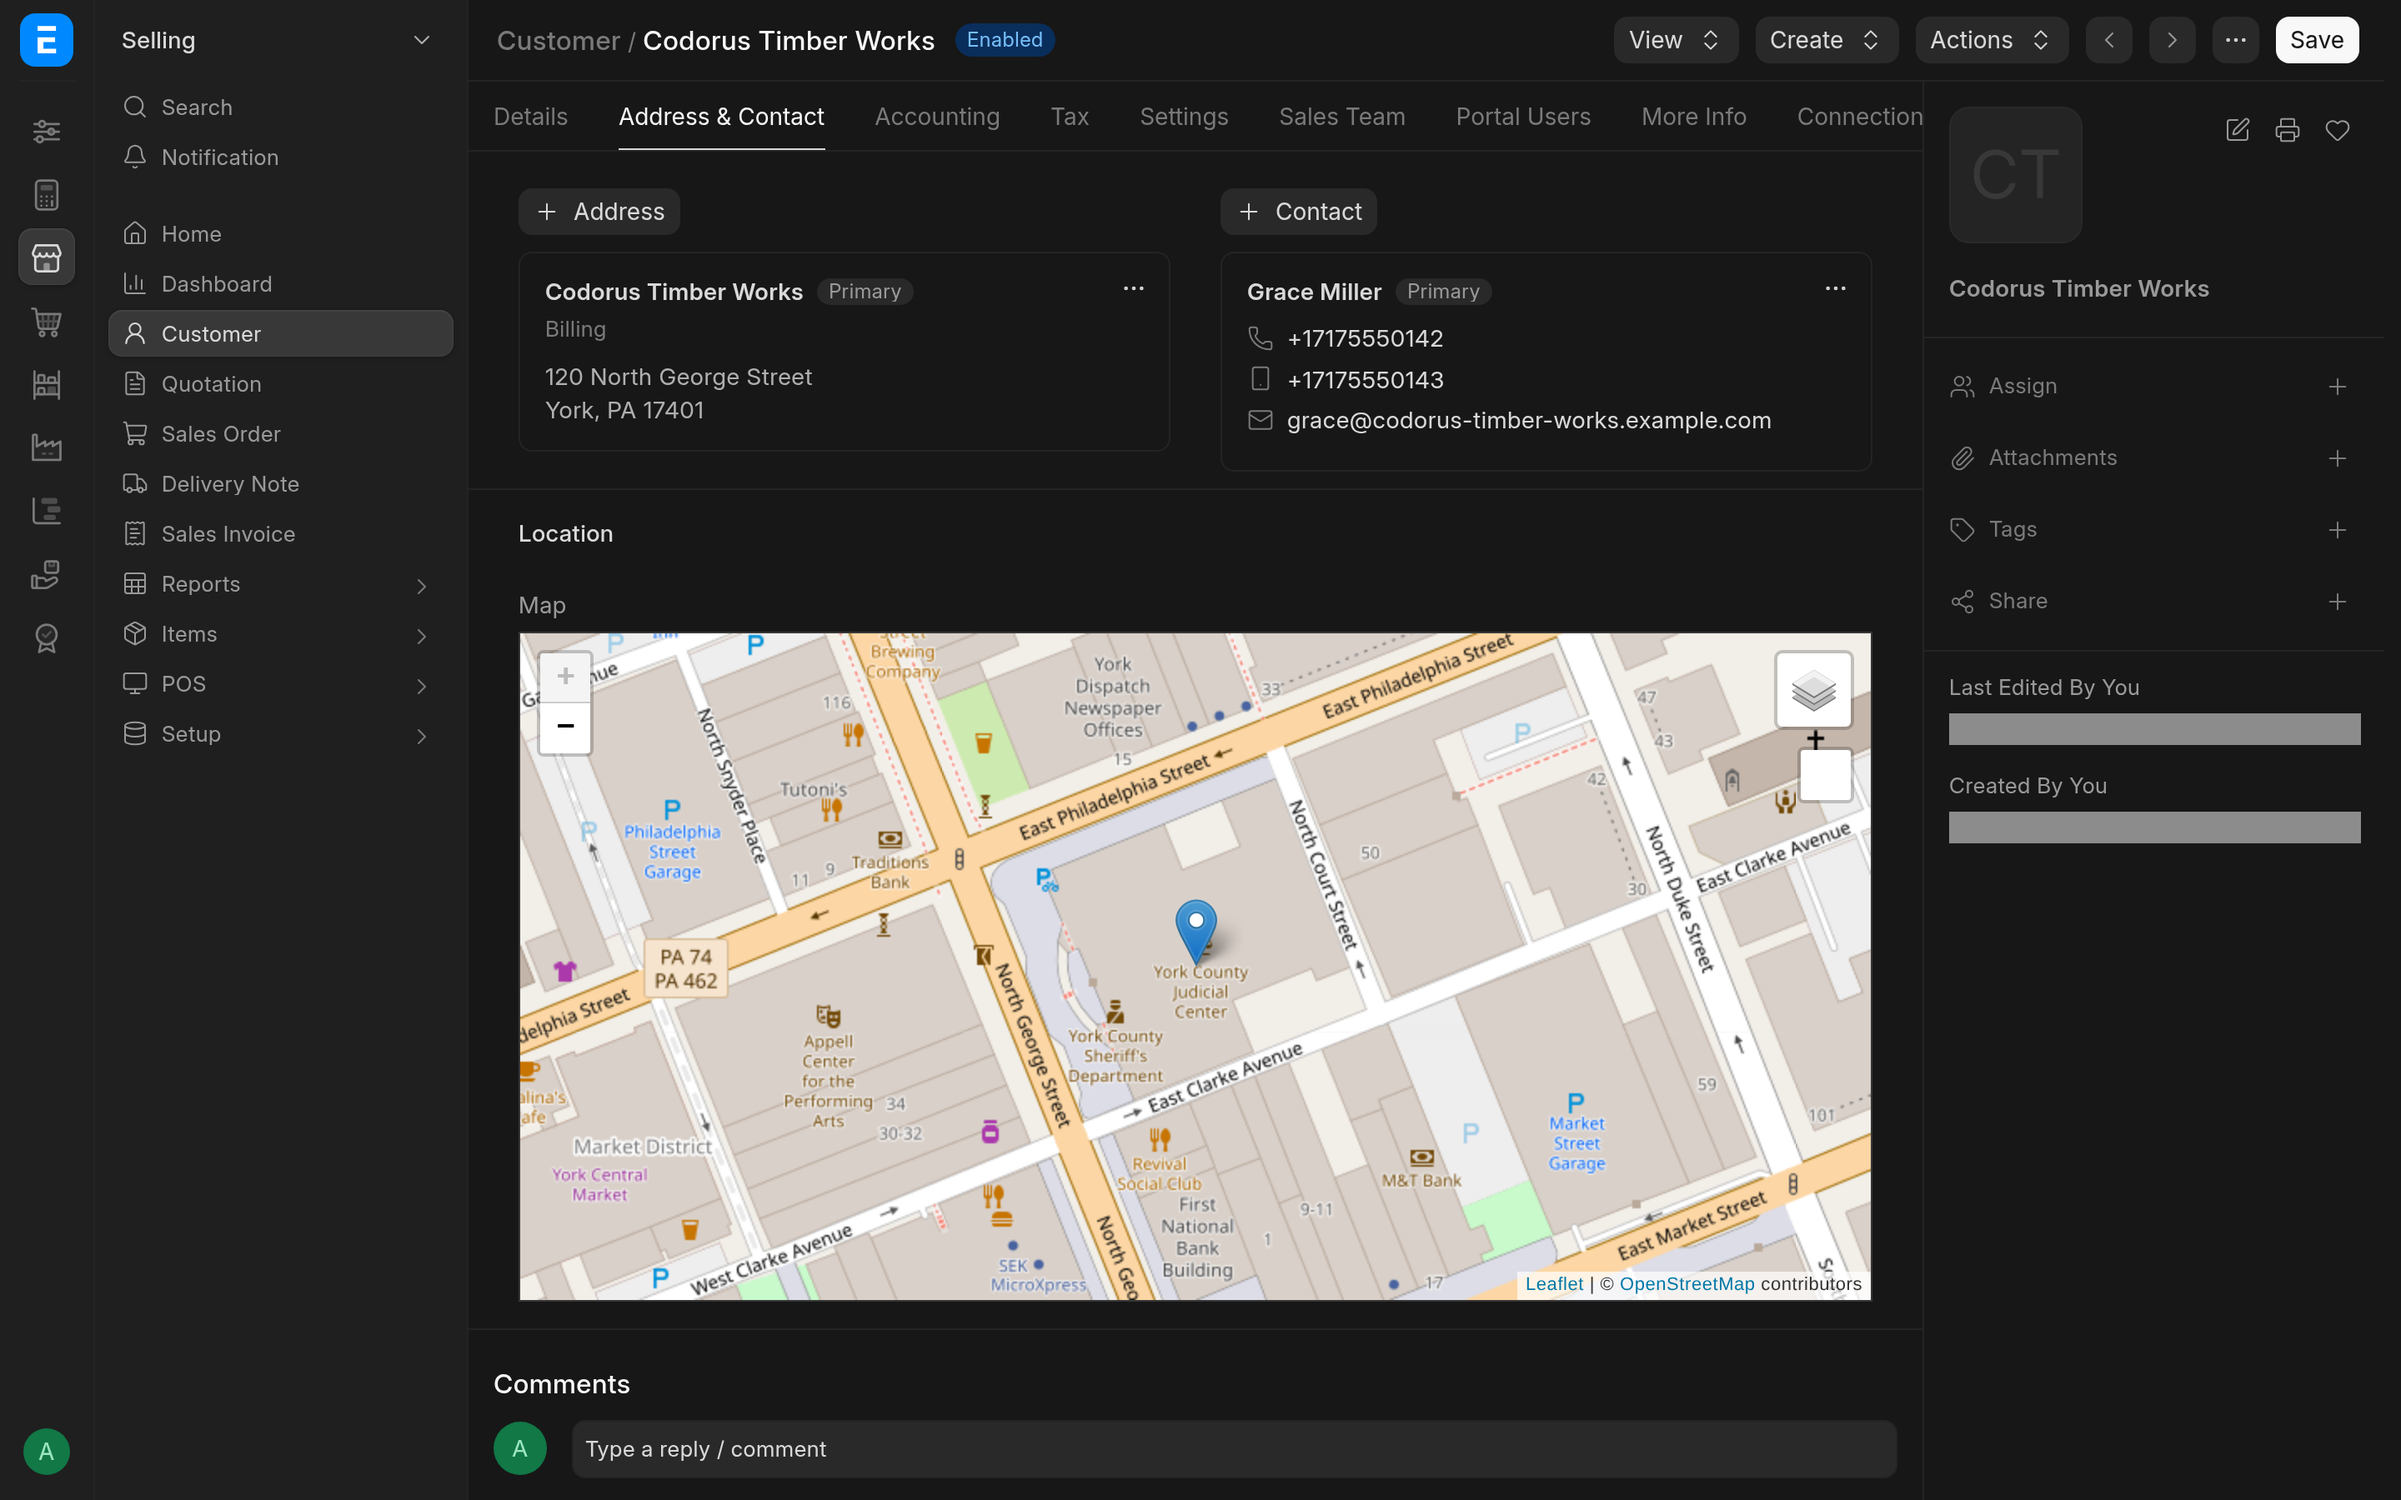
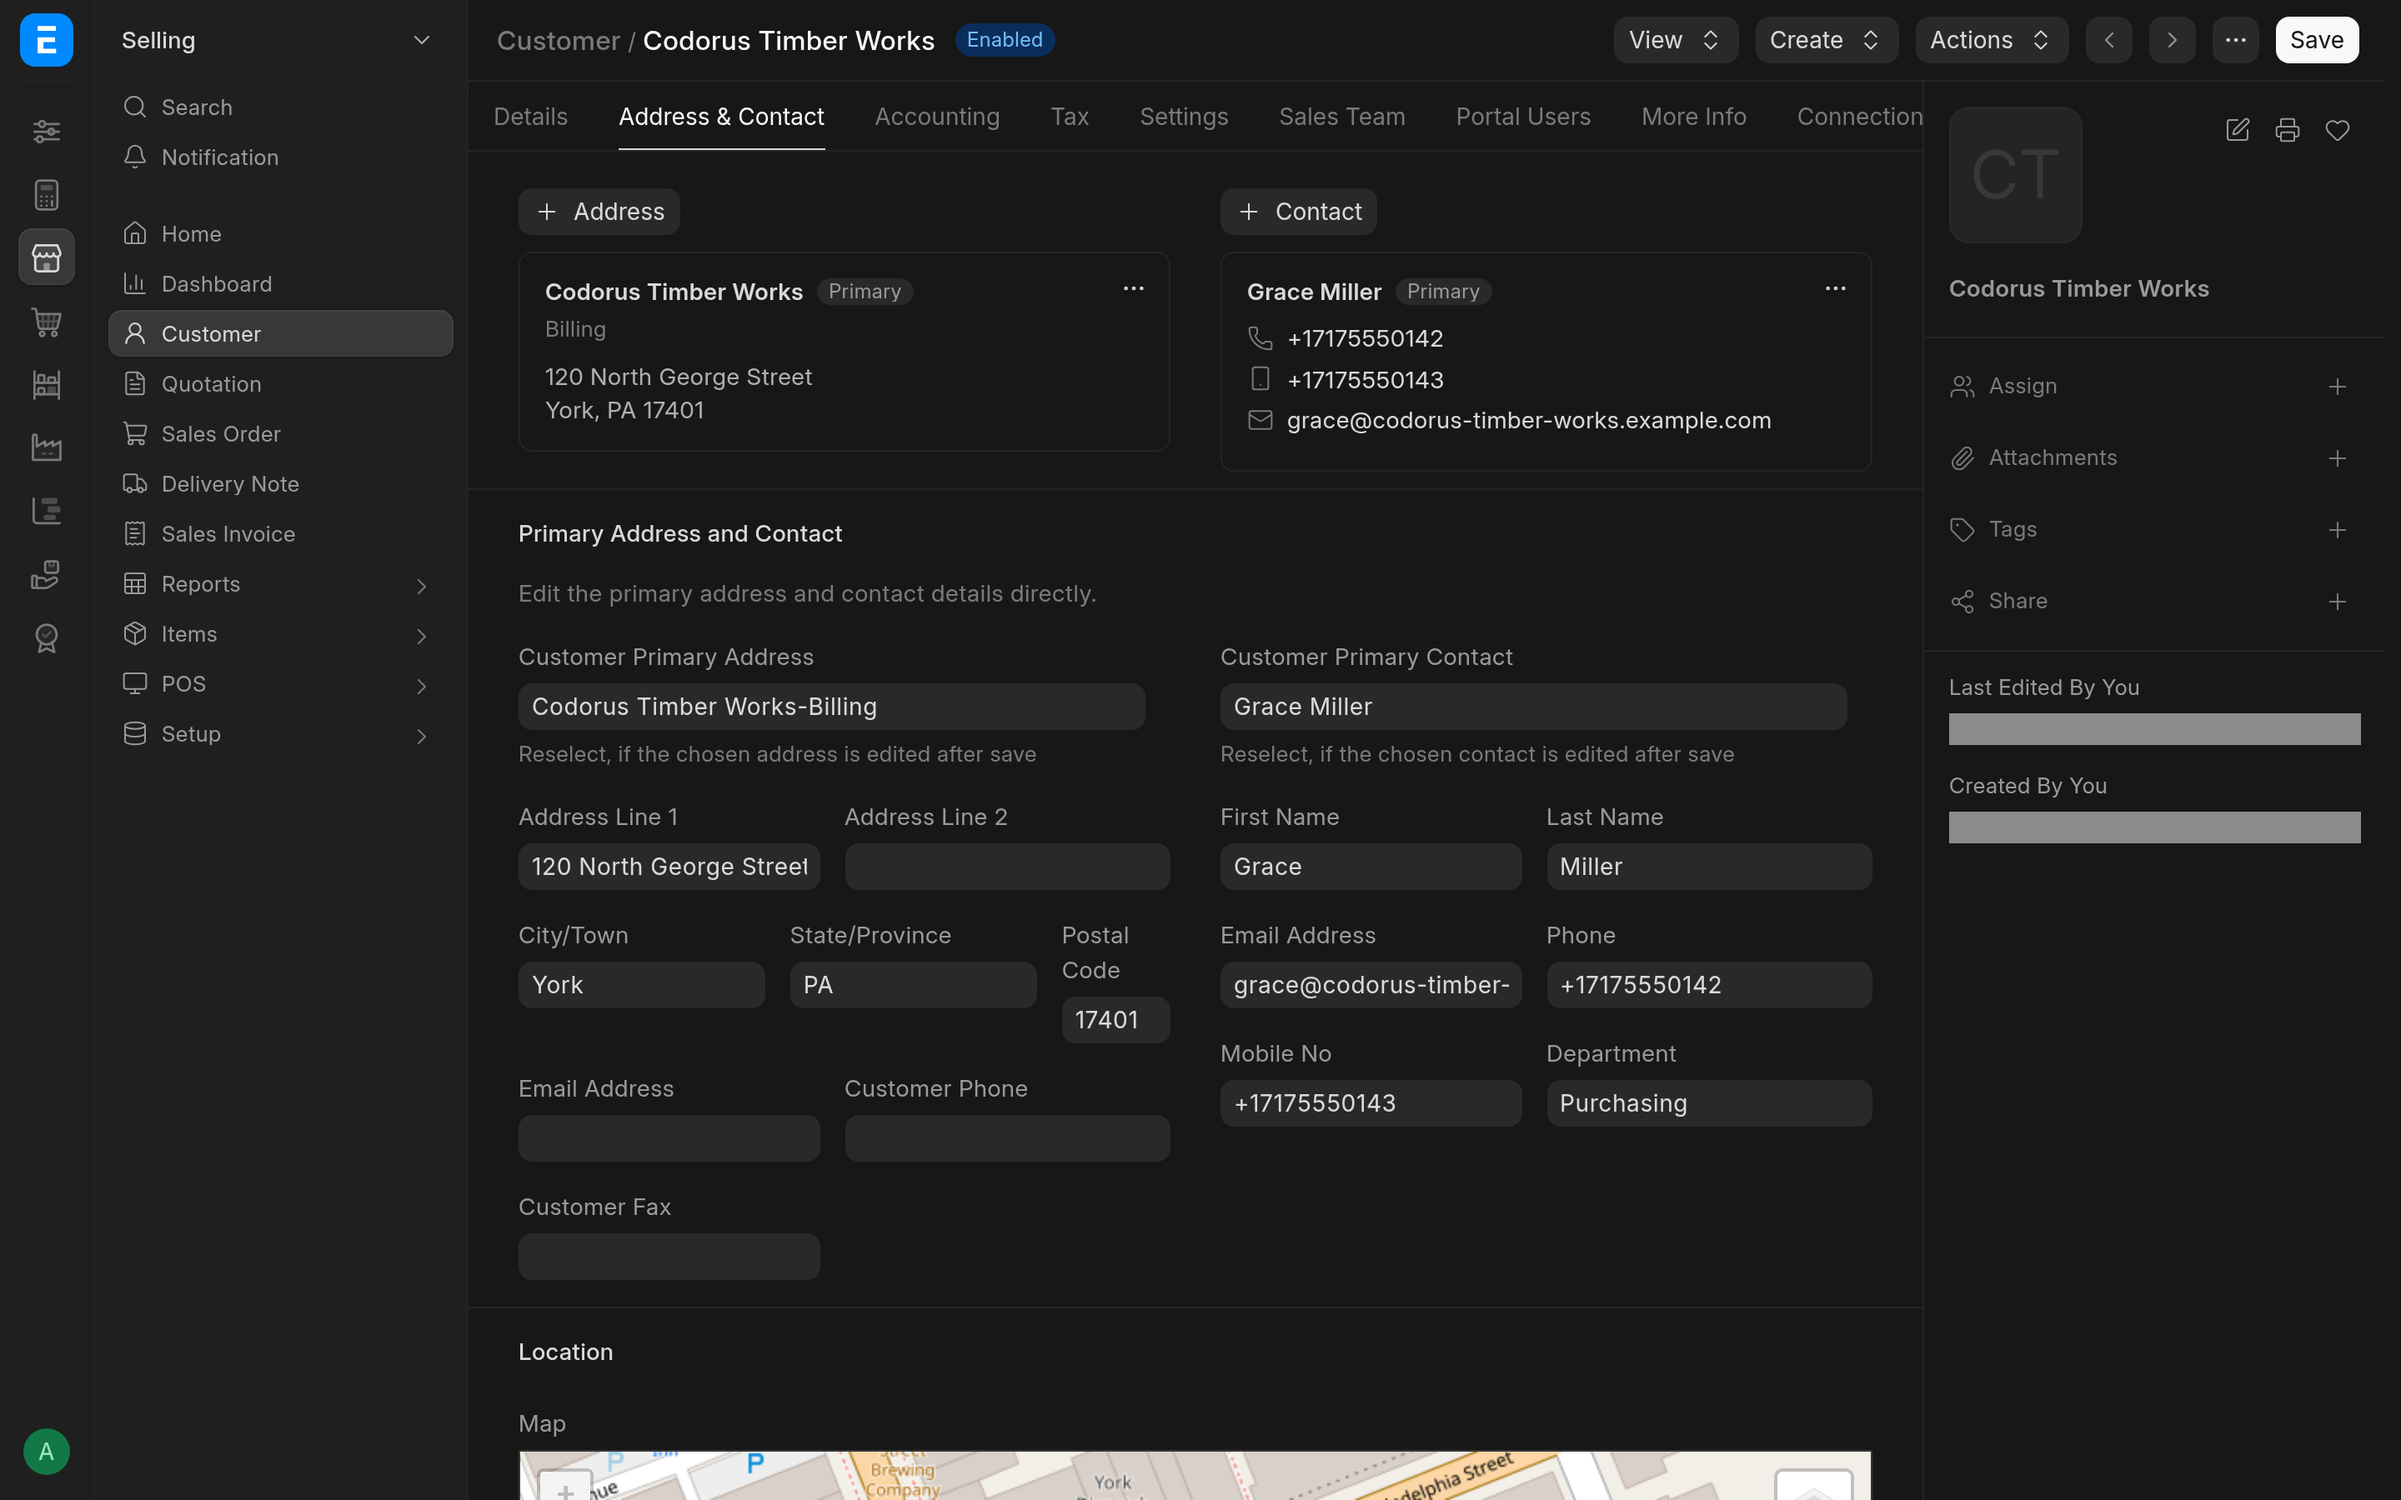
fix(party): show the primary address and contact section on v16
ERPNext v16 hides the Customer's and Supplier's Primary Address and
Contact section, and the app's primary address and contact fields sit
inside it, so they never showed on the form. Add a property setter that
shows the section again, a test that the section is visible and holds
the app's fields, and retake the customer-form screenshot.

Claude-Session: https://claude.ai/code/session_01SvdEeMiewirZ3ifFoUix5F

Changed region(s): [[0.2188, 0.3422, 0.7812, 0.8711], [0.1875, 0.9022, 0.7812, 1.0]]

diff --git a/erpnext_cis_plus/tests/test_party_hooks.py b/erpnext_cis_plus/tests/test_party_hooks.py
@@ -7,6 +7,7 @@ from typing import Any, cast
 import frappe
 from frappe.contacts.doctype.address.address import Address
 from frappe.contacts.doctype.contact.contact import Contact
+from frappe.tests import IntegrationTestCase
 from frappe.utils import get_link_to_form
 
 from erpnext_cis_plus.erpnext_cis_plus.hooks import customer as customer_hooks
@@ -240,3 +241,28 @@ class TestCustomerMap(GeocodingTestCase):
 		frappe.set_user("Guest")
 		with self.assertRaises(frappe.PermissionError):
 			customer_hooks.get_coords()
+
+
+class TestPartyForm(IntegrationTestCase):
+	def test_the_primary_address_and_contact_section_is_shown(self):
+		# ERPNext v16 hides this section; the app's fields sit in it, so it must show
+		for party_type, section in (
+			("Customer", "primary_address_and_contact_detail"),
+			("Supplier", "primary_address_and_contact_detail_section"),
+		):
+			meta = frappe.get_meta(party_type)
+			df = meta.get_field(section)
+			self.assertIsNotNone(df)
+			self.assertFalse(df.hidden, party_type)
+
+			# the app's fields are laid out inside it, up to the next section or tab
+			fieldnames = [df.fieldname for df in meta.fields]
+			after = fieldnames[fieldnames.index(section) + 1 :]
+			end = next(
+				i
+				for i, f in enumerate(after)
+				if meta.get_field(f).fieldtype in ("Section Break", "Tab Break")
+			)
+			prefix = party_type.lower()
+			self.assertIn(f"{prefix}_primary_address_address_line1", after[:end])
+			self.assertIn(f"{prefix}_primary_contact_first_name", after[:end])

diff --git a/README.md b/README.md
@@ -29,13 +29,13 @@ Address geocoding and location maps for customers and suppliers
 
 ERPNext keeps customers, contacts and addresses as separate records linked together. That is flexible, but for a small business, where most customers have one contact and one address, it means a lot of moving between forms. CIS Plus (originally "Customer Information System Enhancements for ERPNext") geocodes addresses through the free OpenStreetMap Nominatim service and shows each Address's, Customer's and Supplier's location on a map on its form.
 
-It also adds primary address and contact fields to the Customer and the Supplier, which create or update the linked Address and Contact when the party is saved. On ERPNext v16 those fields sit in a section that ERPNext hides, so for now they only work through the API, a data import or a script, not on the form; see [Limitations](#limitations).
+It also adds primary address and contact fields to the Customer and the Supplier form, which create or update the linked Address and Contact when the party is saved, so the common case is edited on one form.
 
 ## Features
 
 - **Address geocoding.** When an Address is saved with a new or changed address, or still has no coordinates, it is looked up on Nominatim. Its latitude and longitude are stored, a point is drawn on a new **Location** map on the Address, and its country, postal code, state, county and city are filled in where they are blank (a United States state name becomes its two-letter code).
 - **Location on the Customer and Supplier.** A **Location** section on both forms shows the primary address's point on a map.
-- **Primary address and contact fields on the party.** Customer and Supplier carry fields for the primary address (address lines, city, state, postal code, e-mail, phone, fax) and the primary contact (first and last name, e-mail, phone, mobile, department). Saving an existing Customer or Supplier with these set creates the Address and Contact, links them and marks them primary, or updates the ones already linked. On ERPNext v16 they are not shown on the form (see [Limitations](#limitations)).
+- **Primary address and contact fields on the party.** Customer and Supplier carry fields for the primary address (address lines, city, state, postal code, e-mail, phone, fax) and the primary contact (first and last name, e-mail, phone, mobile, department). They are in the **Primary Address and Contact** section of the **Address & Contact** tab, which ERPNext v16 hides and the app shows again. Saving an existing Customer or Supplier with these set creates the Address and Contact, links them and marks them primary, or updates the ones already linked.
 - **Phone numbers in E.164.** The primary contact's phone and mobile in those fields are converted to E.164 (`+17175550142`) with the [`phonenumbers`](https://pypi.org/project/phonenumbers/) package, using the country of the primary address, or the System Settings country. A number that cannot be parsed is kept as typed and an alert says so.
 - **Primary address and contact by default.** When a Customer or Supplier form is first opened and the party has no primary address or contact, the first linked one is selected; saving the party keeps it.
 - ERPNext's read-only **Primary Address**, **Mobile No** and **Email Id** fields on Customer and Supplier are hidden, since the fields above replace them.
@@ -88,7 +88,6 @@ There is nothing to configure. Two things are worth knowing:
 
 ## Limitations
 
-- **The primary address and contact fields are hidden on ERPNext v16.** ERPNext v16 marks the Customer's and the Supplier's **Primary Address and Contact** section as hidden, and the app does not unhide it, so the fields it adds there do not show on the form. They still work from the API, a data import or a script, and the Address and Contact are still created and updated from them.
 - A new Address created from these fields has no country field of its own on the party, so the country comes from the geocoding result. If the lookup fails or finds nothing, the Address cannot be saved (its country is mandatory) and the Customer or Supplier save fails with it.
 - The fields only act on a party that already exists: filling them in on a new Customer or Supplier and saving creates nothing.
 - The Customer's and Supplier's map point is fetched from the primary address only while it is empty, on a save of the party. A new primary address shows on the map after the party is saved once more, and an address that moves later keeps its old point on the party.

diff --git a/docs/README.md b/docs/README.md
@@ -2,7 +2,7 @@
 
 Address geocoding and location maps for customers and suppliers
 
-ERPNext keeps customers, contacts and addresses as separate records linked together. CIS Plus geocodes addresses through the free OpenStreetMap Nominatim service and shows the location of each Address, Customer and Supplier on a map on its form. It also adds primary address and contact fields to the Customer and the Supplier that create or update the linked Address and Contact; on ERPNext v16 those work through the API, a data import or a script, not on the form (see below).
+ERPNext keeps customers, contacts and addresses as separate records linked together. CIS Plus geocodes addresses through the free OpenStreetMap Nominatim service and shows the location of each Address, Customer and Supplier on a map on its form. It also adds primary address and contact fields to the Customer and the Supplier form that create or update the linked Address and Contact.
 
 ![A Customer's Address & Contact tab: its primary address and contact, and the address's geocoded point on the Customer's map](screenshots/customer-form-light.webp)
 
@@ -10,7 +10,7 @@ ERPNext keeps customers, contacts and addresses as separate records linked toget
 
 - **Address geocoding.** When an Address is saved with a new or changed address, or still has no coordinates, it is looked up on Nominatim. Its latitude and longitude are stored, a point is drawn on a new **Location** map on the Address, and its country, postal code, state, county and city are filled in where they are blank.
 - **Location on the Customer and Supplier.** A **Location** section on both forms shows the primary address's point on a map.
-- **Primary address and contact fields on the party.** Saving an existing Customer or Supplier with its primary address and contact fields set creates the Address and Contact, links them and marks them primary, or updates the ones already linked.
+- **Primary address and contact fields on the party.** In the **Primary Address and Contact** section of the **Address & Contact** tab (ERPNext v16 hides that section; the app shows it again). Saving an existing Customer or Supplier with its primary address and contact fields set creates the Address and Contact, links them and marks them primary, or updates the ones already linked.
 - **Phone numbers in E.164** for the primary contact, using the country of the primary address or of System Settings.
 - **Primary address and contact by default.** When a Customer or Supplier form is first opened and the party has no primary address or contact, the first linked one is selected.
 
@@ -20,7 +20,6 @@ ERPNext keeps customers, contacts and addresses as separate records linked toget
 
 - Geocoding sends the address text (street, city, state, postal code, country) to the public Nominatim service. The app follows [Nominatim's usage policy](https://operations.osmfoundation.org/policies/nominatim/): it identifies itself in its User-Agent, sends at most one request per second from the bench (a lookup that gets no slot within five seconds is skipped, and saving again retries it), and gives up on a request after 10 seconds. That makes it a fit for small sites with modest address volumes.
 - If the service cannot be reached, times out, returns an error or is busy, the Address is saved without coordinates and an alert says so; if it finds no match, the Address is saved without coordinates. Any coordinates from before the change are cleared in both cases, and an Address without coordinates is looked up again the next time it is saved.
-- On ERPNext v16 the Customer's and Supplier's **Primary Address and Contact** section is hidden by ERPNext, so the primary address and contact fields do not show on the form; they still work from the API, a data import or a script.
 - A new Address created from those fields gets its country from the geocoding result. If the lookup fails, the Address, and with it the Customer or Supplier save, fails on the missing country.
 - A party's map point is fetched from its primary address only while it is empty: a new primary address shows after the party is saved once more, and a moved address keeps its old point on the party.
 - The app sets the Customer list up for Frappe's Map view, but that view currently fails to open on Frappe v16 (`this.load_lib is not a function`), so the Customer map view shows no map until Frappe fixes it.
